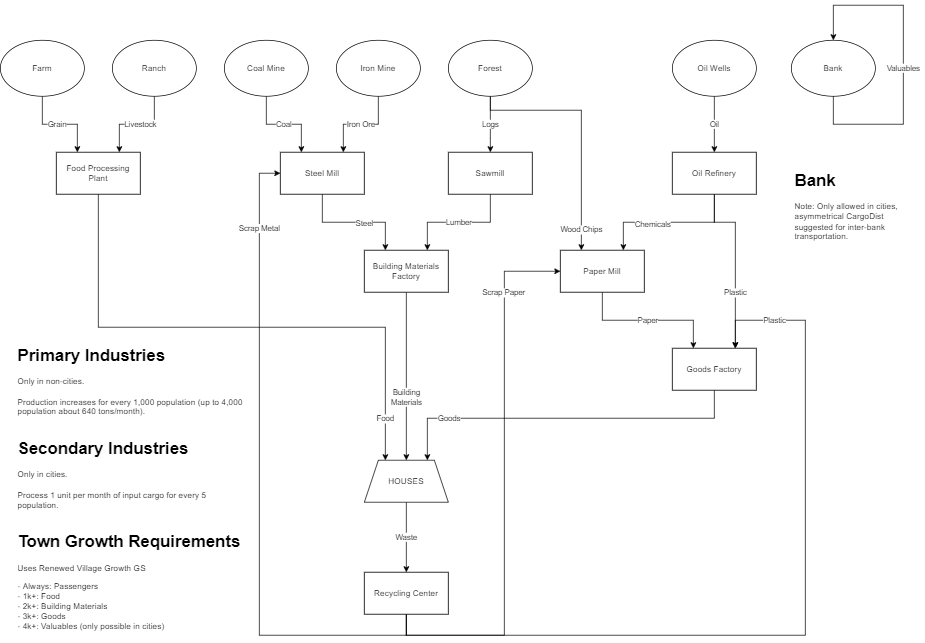
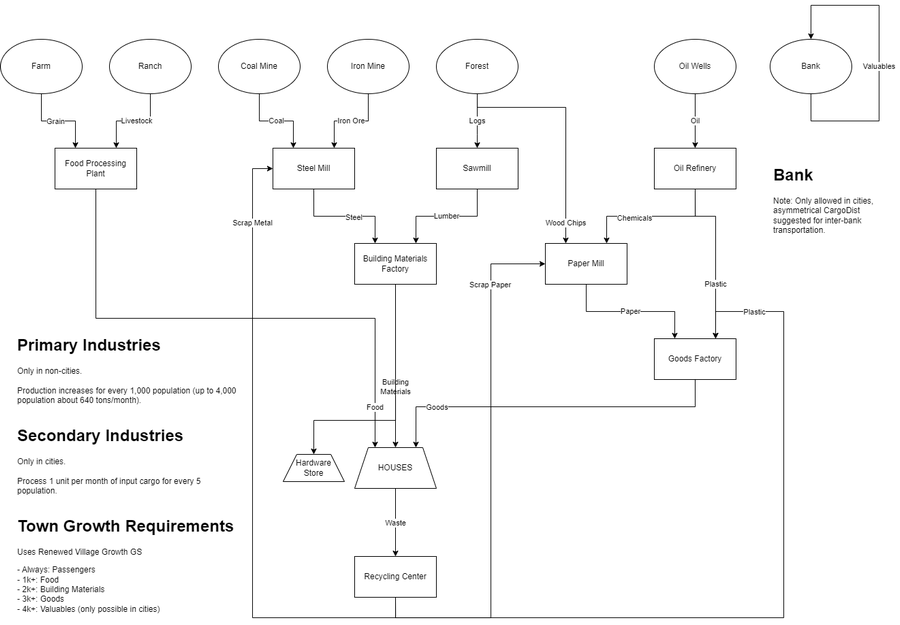
Doc: Add Hardware Store to Readme

diff --git a/README.md b/README.md
@@ -38,6 +38,8 @@ These two goals together encourage players to both serve a town well, and encour
 
 * Secondary industries can only appear in cities, within about 15 tiles of the furthest house from the center. With the exception of Banks and Incinerators, only one secondary industry may appear in each city — to avoid cheesing the production mechanic with one big production city. Banks replace houses and must be facing a road in a city, and Incinerators must be at least 100 tiles from other Incinerators. These rules all apply even when funding an industry.
 
+* The Hardware Store industry accepts Building Materials and can be funded by the player, in case the house set does not accept this cargo.
+
 ## Town Growth
 
 ITI 2 is designed to be used with the [Renewed Village Growth](https://github.com/F1rrel/RenewedVillageGrowth) script, which adds cargo delivery requirements for towns to grow:
@@ -86,6 +88,10 @@ Secondary industries and Banks only generate in cities.
 * Swedish (En okänd välgörare and Shump)
 
 Please feel free to translate into your language and submit a Pull Request.
+
+## Additional Credits
+
+* Overjay: Hardware store concept and coding
 
 ## Design Notes
 
